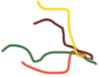
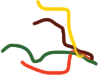
Socket is drawn differently in the energy form, so player can see it. Level 2 and 4(5.6) updated.

Changed region(s): [[0.0, 0.0, 1.0, 0.987]]

diff --git a/Nobots/Nobots/Nobots/Elements/Socket.cs b/Nobots/Nobots/Nobots/Elements/Socket.cs
@@ -43,7 +43,8 @@ namespace Nobots.Elements
         }
 
         Body body;
-        Texture2D texture;       
+        Texture2D texture;
+        Texture2D texture2;
         Random rand = new Random();
 
         public override Vector2 Position
@@ -84,6 +85,7 @@ namespace Nobots.Elements
         {
             ZBuffer = -6f;
             texture = Game.Content.Load<Texture2D>("wires_end");
+            texture2 = Game.Content.Load<Texture2D>("wires_end2");
             body = BodyFactory.CreateRectangle(scene.World, Conversion.ToWorld(texture.Width), Conversion.ToWorld(texture.Height), 20f);
             body.Position = position;
             body.BodyType = BodyType.Static;
@@ -95,7 +97,10 @@ namespace Nobots.Elements
 
         public override void Draw(GameTime gameTime)
         {
-            scene.SpriteBatch.Draw(texture, scene.Camera.Scale * Conversion.ToDisplay(body.Position - scene.Camera.Position), null, Color.White, body.Rotation, new Vector2(texture.Width / 2.0f, texture.Height / 2.0f), scene.Camera.Scale, SpriteEffects.None, 0);
+            if (scene.InputManager.Character is Energy)
+                scene.SpriteBatch.Draw(texture2, scene.Camera.Scale * Conversion.ToDisplay(body.Position - scene.Camera.Position), null, Color.White, body.Rotation, new Vector2(texture2.Width / 2.0f, texture2.Height / 2.0f), scene.Camera.Scale, SpriteEffects.None, 0);
+            else
+                scene.SpriteBatch.Draw(texture, scene.Camera.Scale * Conversion.ToDisplay(body.Position - scene.Camera.Position), null, Color.White, body.Rotation, new Vector2(texture.Width / 2.0f, texture.Height / 2.0f), scene.Camera.Scale, SpriteEffects.None, 0);
         }
 
         public void Travel(Energy energy)
